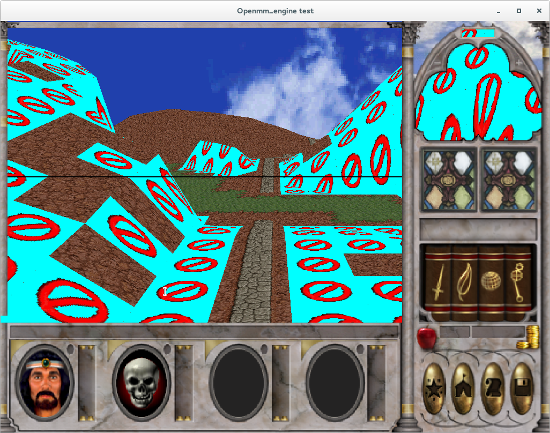
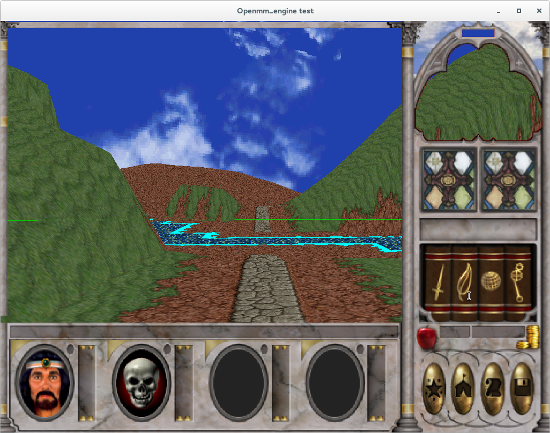
[version 0.3.2] new sorpigal terrain texturing almost complete. (missing water borders) ; new screenshots and readme updated

diff --git a/Engine/MMap.py b/Engine/MMap.py
@@ -11,7 +11,7 @@ from PIL import Image
 
 import logging, logging.config
 import pprint
-import collections
+from decimal import Decimal
 
 '''
 struct ODM
@@ -105,7 +105,7 @@ class MMap(object):
         self.log.info("Loading \"icons/dtile.bin\" {} bytes".format(len(self.dtilebin)))
 
         self.LoadTileData()
-        tm.LoadMegaTexture("tiles_megatexture", "bitmaps", self.imglist )
+        tm.LoadAtlasTexture("tiles_megatexture", "bitmaps", self.imglist )
         self.LoadMapData(name)
 
     def LoadMapData(self,name):
@@ -123,7 +123,9 @@ class MMap(object):
         self.vertexes = None
         self.textures = None
         print(self.tm.textures["tiles_megatexture"]['h'] / self.tm.textures["tiles_megatexture"]['hstep'])
-        s = 1.0 / (self.tm.textures["tiles_megatexture"]['h'] / self.tm.textures["tiles_megatexture"]['hstep'])
+        print(self.tm.textures["tiles_megatexture"]['h'])
+        print(self.tm.textures["tiles_megatexture"]['hstep'] )
+        s = Decimal(self.tm.textures["tiles_megatexture"]['hstep']) / Decimal(self.tm.textures["tiles_megatexture"]['h'])
         for z in range(0,127):
             for x in range(0,127):
                 vertex = numpy.empty((6,3), dtype='float32')
@@ -149,10 +151,15 @@ class MMap(object):
                     tile_index = self.imglist.index(tile_name)
                 except:
                     tile_index = self.imglist.index('pending')
-                texture = numpy.empty((6,2), dtype='float32')
+                texture = numpy.empty((6,2), dtype='float64')
+
+                if tile_name == 'pending':
+                    print(tile_type)
                 
-                base = tile_index*s
-                top = (tile_index+1)*s
+                base = Decimal(tile_index)*s
+                top = Decimal(tile_index+1)*s
+
+                #print("{} {}".format(base,top))
 
                 texture[0] = [0.0,base]
                 texture[1] = [0.0, top]
@@ -168,18 +175,93 @@ class MMap(object):
         self.log.info("map loaded")
 
     def GetTileName(self, x, z):
-        c = self.tilemap[z*128+x]
-        #if c == 0x8a:
-        #    return 'wtrdrne'
-        #if c == 0x8b:
-        #    return 'wtrdrse'
-        #if c == 0x8c:
-        #    return 'wtrdrnw'
-        #if c == 0x8d:
-        #    return 'wtrdrsw'
-        #if c == 90:
-        #    return 'wtrtyl'
-        #else:
+        c = self.tilemap[x*128+z]
+        if c >= 1 and c <=52:
+            return 'dirttyl'
+        #grass
+        if c >= 0x5a and c <=0x65:
+            return 'grastyl'
+        if c == 0x66:
+            return 'grdrtne'
+        if c == 0x67:
+            return 'grdrtse'
+        if c == 0x68:
+            return 'grdrtnw'
+        if c == 0x69:
+            return 'grdrtsw'
+        if c == 0x6a:
+            return 'grdrte'
+        if c == 0x6b:
+            return 'grdrtw'
+        if c == 0x6c:
+            return 'grdrtn'
+        if c == 0x6d:
+            return 'grdrts'
+        if c == 0x6e:
+            return 'grdrtxne'
+        if c == 0x6f:
+            return 'grdrtxse'
+        if c == 0x70:
+            return 'grdrtxnw'
+        if c == 0x71:
+            return 'grdrtxsw'
+        #water
+        if c >= 0x7e and c <= 0x89:
+            return 'wtrtyl'
+        if c == 0x8a:
+            return 'wtrdrne'
+        if c == 0x8b:
+            return 'wtrdrse'
+        if c == 0x8c:
+            return 'wtrdrnw'
+        if c == 0x8d:
+            return 'wtrdrsw'
+        if c == 0x8e:
+            return 'wtrdre'
+        if c == 0x8f:
+            return 'wtrdrw'
+        if c == 0x90:
+            return 'wtrdrn'
+        if c == 0x91:
+            return 'wtrdrs'
+        if c == 0x92:
+            return 'wtrdrxne'
+        if c == 0x93:
+            return 'wtrdrxse'
+        if c == 0x94:
+            return 'wtrdrxnw'
+        if c == 0x95:
+            return 'wtrdrxsw'
+
+
+        #vulcaic
+        if c >= 0xa2 and c <= 0xad:
+            return 'voltyl'
+        if c == 0xae:
+            return 'voldrtne'
+        if c == 0xaf:
+            return 'voldrtse'
+        if c == 0xb0:
+            return 'voldrtnw'
+        if c == 0xb1:
+            return 'voldrtsw'
+        if c == 0xb2:
+            return 'voldrte'
+        if c == 0xb3:
+            return 'voldrtw'
+        if c == 0xb4:
+            return 'voldrtn'
+        if c == 0xb5:
+            return 'voldrts'
+        if c == 0xb6:
+            return 'voldrtxne'
+        if c == 0xb7:
+            return 'voldrtxse'
+        if c == 0xb8:
+            return 'voldrtxnw'
+        if c == 0xb9:
+            return 'voldrtxsw'
+        #print("cant' finde code {}".format(c))
         return None
 
     def LoadTileData(self):
@@ -226,8 +308,8 @@ class MMap(object):
             #if  name != '' and name not in self.imglist:
             #    self.imglist.append(name)
 
-        for x in ['wtrtyl','wtrdre','wtrdrn','wtrdrne','wtrdrnw','wtrdrs',
-                  'wtrdrse','wtrdrsw','wtrdrw','wtrdrxne','wtrdrxnw','wtrdrxse','wtrdrxsw']:
+        for x in ['wtrtyl','wtrdre','wtrdrn','wtrdrne','wtrdrnw','wtrdrs', 'wtrdrse','wtrdrsw','wtrdrw','wtrdrxne','wtrdrxnw','wtrdrxse','wtrdrxsw',
+                  'voltyl','voldrte','voldrtn','voldrtne','voldrtnw','voldrts', 'voldrtse','voldrtsw','voldrtw','voldrtxne','voldrtxnw','voldrtxse','voldrtxsw']:
             if  x not in self.imglist:
                 self.imglist += [x]
 
@@ -243,7 +325,7 @@ class MMap(object):
         glEnableClientState(GL_VERTEX_ARRAY)
         glVertexPointer (3, GL_FLOAT, 0, self.vertexes)
         glEnableClientState (GL_TEXTURE_COORD_ARRAY)
-        glTexCoordPointer(2, GL_FLOAT, 0, self.textures)
+        glTexCoordPointer(2, GL_DOUBLE, 0, self.textures)
         glDrawArrays(GL_TRIANGLES, 0, len(self.vertexes))
         glDisableClientState (GL_VERTEX_ARRAY)
         glDisableClientState (GL_TEXTURE_COORD_ARRAY)
@@ -253,18 +335,18 @@ class MMap(object):
         glPushMatrix();
         glDisable(GL_TEXTURE_2D)
         glDisable(GL_DEPTH_TEST)
-        glLineWidth(2.0);
+        glLineWidth(1.0);
         glBegin(GL_LINES);
-        glColor3f(0,0,0);
+        glColor3f(1,0,0);
         glVertex3f(512*44, 64, 512*44);
         glVertex3f(512*44, 64, -512*44);
-
+        glColor3f(0,1,0);
         glVertex3f(512*44, 64, 512*44);
         glVertex3f(-512*44, 64, 512*44);
-
+        glColor3f(0,0,1);
         glVertex3f(-512*44, 64, 512*44);
         glVertex3f(-512*44, 64, -512*44);
-
+        glColor3f(1,1,0);
         glVertex3f(-512*44, 64, -512*44);
         glVertex3f(512*44, 64, -512*44);
         glEnd();

diff --git a/Engine/TextureManager.py b/Engine/TextureManager.py
@@ -26,11 +26,11 @@ class TextureManager(object):
         glDeleteTextures( 1, texture[name]['id'] ) # checks
         pass
 
-    def LoadMegaTexture(self, tex_name, dirname, imglist): #TODO join implementation with LoadTexture
+    def LoadAtlasTexture(self, tex_name, dirname, imglist): #TODO join implementation with LoadTexture
         self.log.info("Loading megatexture \"{}\"".format(tex_name))
         self.log.info("max: {}".format(GL_MAX_TEXTURE_SIZE))
         texture_id = self.GetNewTextureId()
-        ret = self.lm.GetLod("bitmaps").GetJoinedImgs(imglist)
+        ret = self.lm.GetLod("bitmaps").GetAtlas(imglist)
 
         img = ret['img']
         width = img.size[0]
@@ -42,8 +42,8 @@ class TextureManager(object):
         glPixelStorei     ( GL_UNPACK_ALIGNMENT,1 )
         glTexParameterf   ( GL_TEXTURE_2D, GL_TEXTURE_WRAP_S, GL_REPEAT )
         glTexParameterf   ( GL_TEXTURE_2D, GL_TEXTURE_WRAP_T, GL_REPEAT )
-        glTexParameteri   ( GL_TEXTURE_2D,GL_TEXTURE_MAG_FILTER,GL_NEAREST ) #NEAREST
-        glTexParameteri   ( GL_TEXTURE_2D,GL_TEXTURE_MIN_FILTER,GL_NEAREST_MIPMAP_NEAREST ) #any combo
+        glTexParameteri   ( GL_TEXTURE_2D,GL_TEXTURE_MAG_FILTER, GL_NEAREST ) #NEAREST
+        glTexParameteri   ( GL_TEXTURE_2D,GL_TEXTURE_MIN_FILTER, GL_NEAREST ) #any combo
         gluBuild2DMipmaps ( GL_TEXTURE_2D, GL_RGBA, width, height, GL_RGBA, GL_UNSIGNED_BYTE, image )
 
         # TODO check if name already exists

diff --git a/Lod/LodArchive.py b/Lod/LodArchive.py
@@ -210,7 +210,7 @@ class LodArchive(object):
                 failed += 1
         return failed
 
-    def GetJoinedImgs(self, imgs):
+    def GetAtlas(self, imgs):
         self.log.info("Loading Joined images \"{}\"".format(imgs))
         height_tot = 0
         height = 0
@@ -232,7 +232,7 @@ class LodArchive(object):
                 width = img.size[0]
             if img.size[1] > height:
                 if height != 0:
-                    height_tot += height - img.size[1]
+                    height_tot += img.size[1] - height
                 height = img.size[1]
             height_tot += height
         img_joined = Image.new("RGB", (width, height_tot))
@@ -242,8 +242,8 @@ class LodArchive(object):
                 continue
             if images[i].size[1] != height:
                 images[i] = images[i].resize((width,height), Image.ANTIALIAS)
-            img_joined.paste(images[i], (0,index*height))
+            img_joined.paste(images[i], (0, index*height))
             index += 1
         img_joined = img_joined.transpose(Image.FLIP_TOP_BOTTOM)
-        #img_joined.save('tmp/join.bmp')
+        img_joined.save('tmp/join.bmp')
         return {'img': img_joined, 'imglist': imgs, 'hstep': height}

diff --git a/README.md b/README.md
@@ -1,4 +1,4 @@
-openmm_engine v0.3.1
+openmm_engine v0.3.2
 ========
 
 Might and Magic 6-7-8 engine attempt.
@@ -38,11 +38,16 @@ WARNING: use data from mm6! (tested on gentoo linux)
 - run: ./openmm\_engine\_test.py \<mapcode\>
 
 Mapcode is a 2 char coordinate of the map of Enroth.
-The first char is one of (a b c d e). The second char is one of (1 2 3). For example 'e3' is new New Sorpigal
+The first char is one of (a b c d e). The second char is one of (1 2 3).
+For example 'e3' is new New Sorpigal which is default if you don't specify the code
 
-as you can se the map is currently messed up. (now is more like the first screen)
+as you can see the map is not yet completed.
 
-![ScreenShot](/res/screen_megatex.png)
+![ScreenShot](/res/new_sorpigal.png)
+
+rudimental sprite display and with animation of a goblin
+
+![ScreenShot](/res/screen_ui.png)
 
 Todo 
 ========
